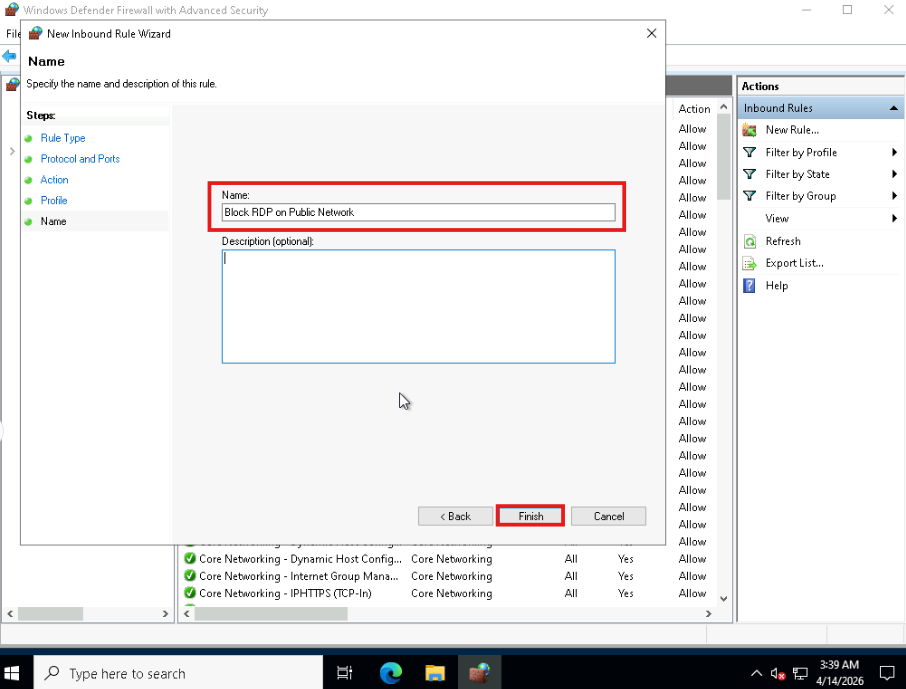
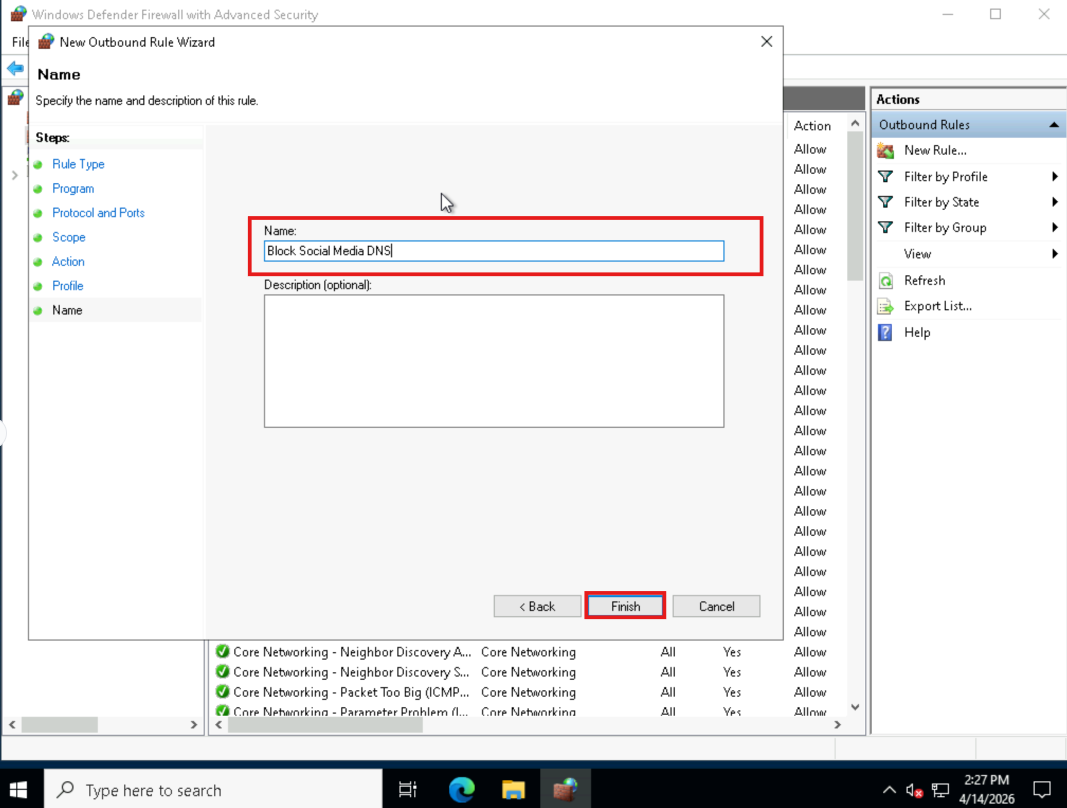
update Network Design Lab

diff --git a/Computer Networks and Network Security/Labs/Final Project - Network Design and Security Configuration/Data/Network Design and Security Configuration.md b/Computer Networks and Network Security/Labs/Final Project - Network Design and Security Configuration/Data/Network Design and Security Configuration.md
@@ -429,6 +429,8 @@ Note the IP address (for this example, we'll use `93.184.216.34`).
 1. Open **Windows Defender Firewall with Advanced Security**
 2. In the left pane, click **Outbound Rules**
 
+![alt text](<../Screenshots/Outbound Rules list.png>)
+
 ### Step 3: Create New Rule
 
 1. In the right Actions pane, click **New Rule...**
@@ -440,10 +442,14 @@ Note the IP address (for this example, we'll use `93.184.216.34`).
 
 ![Custom rule type selected]
 
+![alt text](<../Screenshots/Custom rule type selected.png>)
+
 ### Step 5: Configure Program
 
 1. Select **All programs**
 2. Click **Next**
+
+![alt text](<../Screenshots/Select All programs.png>)
 
 ### Step 6: Configure Protocol and Ports
 
@@ -458,6 +464,8 @@ Note the IP address (for this example, we'll use `93.184.216.34`).
 
 ![Scope configuration with These IP addresses selected]
 
+![alt text](<../Screenshots/Scope configuration with These IP addresses selected.png>)
+
 4. In the Add IP Address dialog:
    - Select **This IP address or subnet**
    - Enter the IP address: `93.184.216.34`
@@ -465,12 +473,18 @@ Note the IP address (for this example, we'll use `93.184.216.34`).
 
 ![Add IP address dialog]
 
+![alt text](<../Screenshots/Add IP address dialog.png>)
+
+![alt text](<../Screenshots/Added IP address.png>)
+
 5. Click **Next**
 
 ### Step 8: Specify Action
 
 1. Select **Block the connection**
 2. Click **Next**
+
+![alt text](<../Screenshots/Select Block the connection.png>)
 
 ### Step 9: Specify Profile
 
@@ -482,12 +496,16 @@ Note the IP address (for this example, we'll use `93.184.216.34`).
 
 ![Profile selection with all three checked]
 
+![alt text](<../Screenshots/Profile selection with all three checked.png>)
+
 ### Step 10: Name the Rule
 
 1. Enter a name: **Block Social Media DNS**
 2. Click **Finish**
 
 ![Rule naming]
+
+![alt text](<../Screenshots/Rule naming.png>)
 
 ### Step 11: Verify the Rule
 
@@ -498,6 +516,8 @@ Note the IP address (for this example, we'll use `93.184.216.34`).
    - **Profile:** Domain, Private, Public
 
 ![Outbound Rules list showing new rule]
+
+![alt text](<../Screenshots/Outbound Rules list showing new rule.png>)
 
 ### Step 12: Take Screenshot
 